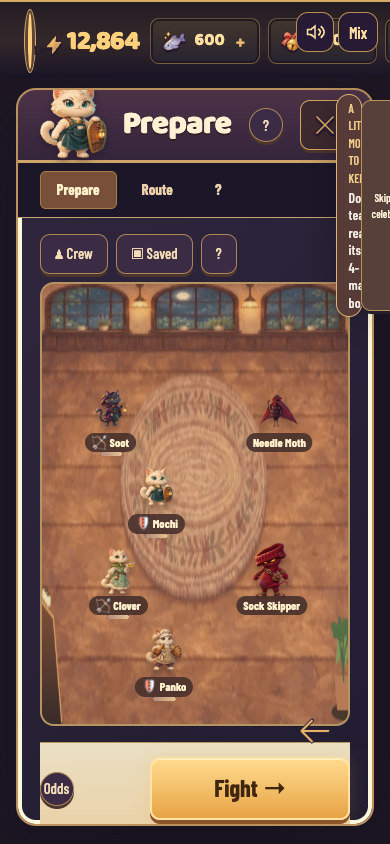
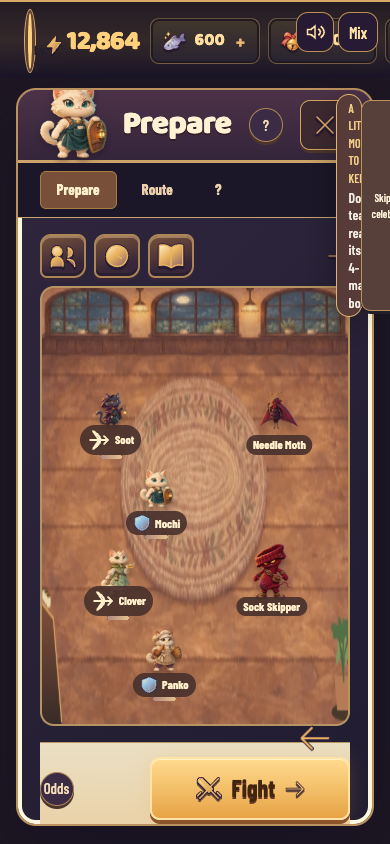
V3A2 P8: verify formation controls and publish voice timing response

diff --git a/reports/v3-battle/REQUESTS-TO-B.md b/reports/v3-battle/REQUESTS-TO-B.md
@@ -1,5 +1,11 @@
 # Requests to Session B
 
+## 2026-11-13 — S5-A-VOICE-WINDOW and U3 formation responses
+
+A source2bb54cf9c reserves each required take's durationMs plus80ms, including consecutive ultimate charge/release lines. Voiced windows run at1x at every selected battle speed; full plate contact remains3200ms and rules events are unchanged. Nine actual browser timing captures (three fixtures at×1/×2/×3) fire130/130 required cues with0 duration overlaps, minimum clearance96.33ms, and9/9 combat parity. Evidence:`a2/P1/audio-window-after.json` and `voice-*-x*.json`. This closes the A event-timing reproduction; B's audible source interruption/recognition checks still need the scheduled integration. No accelerated speech, extra generic voice, or engine changes were introduced.
+
+A sourcea94248fd6 replaces the U3 formation marks with GameIcon controls,44px targets, and an orange Fight action at1280/1440/390px. Native and touch drag swaps, rows, seed, HP and enemy stats still pass. Evidence:`a2/P8/controls-metrics.json`, `compare-controls.png`, and `metrics.json`. A uses the current clock artwork for Saved until B's history icon arrives. Scheduled merges stay16/18November12:00UTC.
+
 ## 2026-11-13 — headless model audio regression at 84b4e49f9
 A6 merged published B1–B5. Root `pnpm test` fails 2/41 Node tests in `tools/cardrpg-c2/policy.test.mjs`: `ReferenceError: window is not defined` in `CafeAudio.ui`, called by `DepthModel.apply/start`. Please guard browser bridge access in `apps/web/src/game/squad/turn3d/audio.ts` (including all other new direct `window.__thAudio` accesses), or route it through the shared safe `playCue` adapter. These headless simulations intentionally run without a browser. Do not change combat results or test expectations to hide the failure.
 
